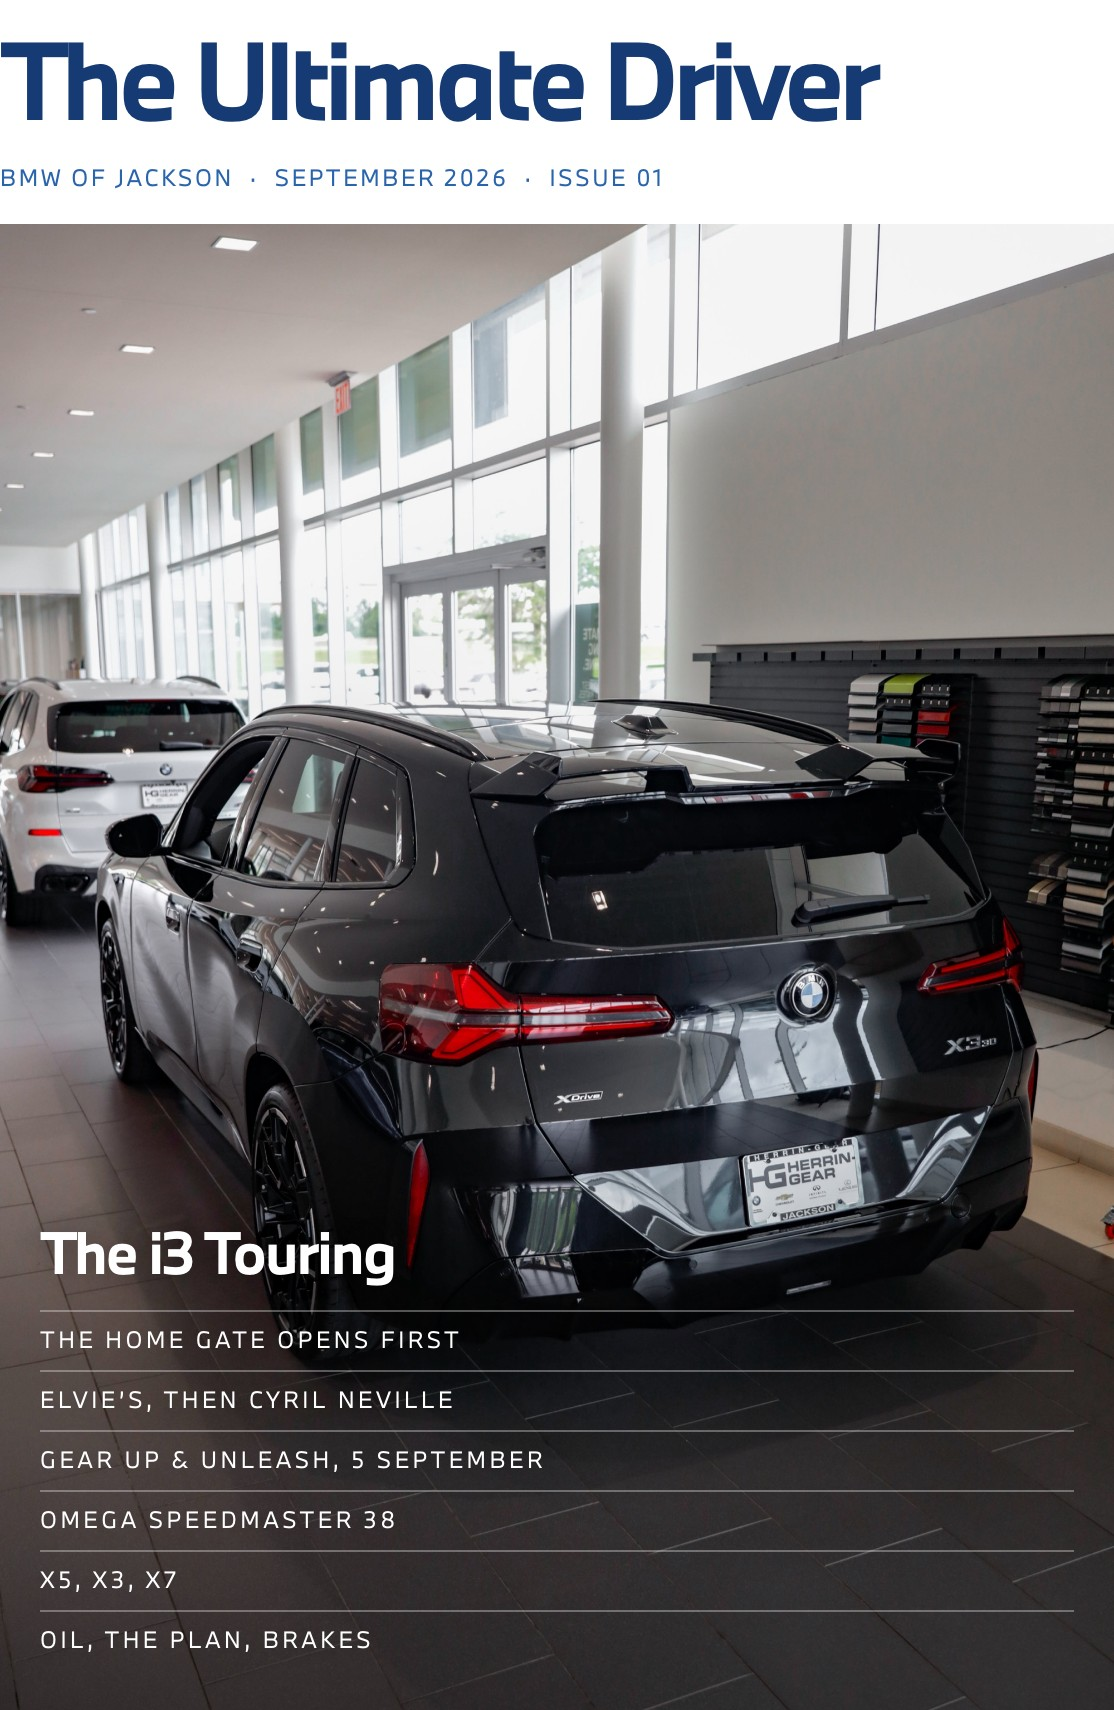
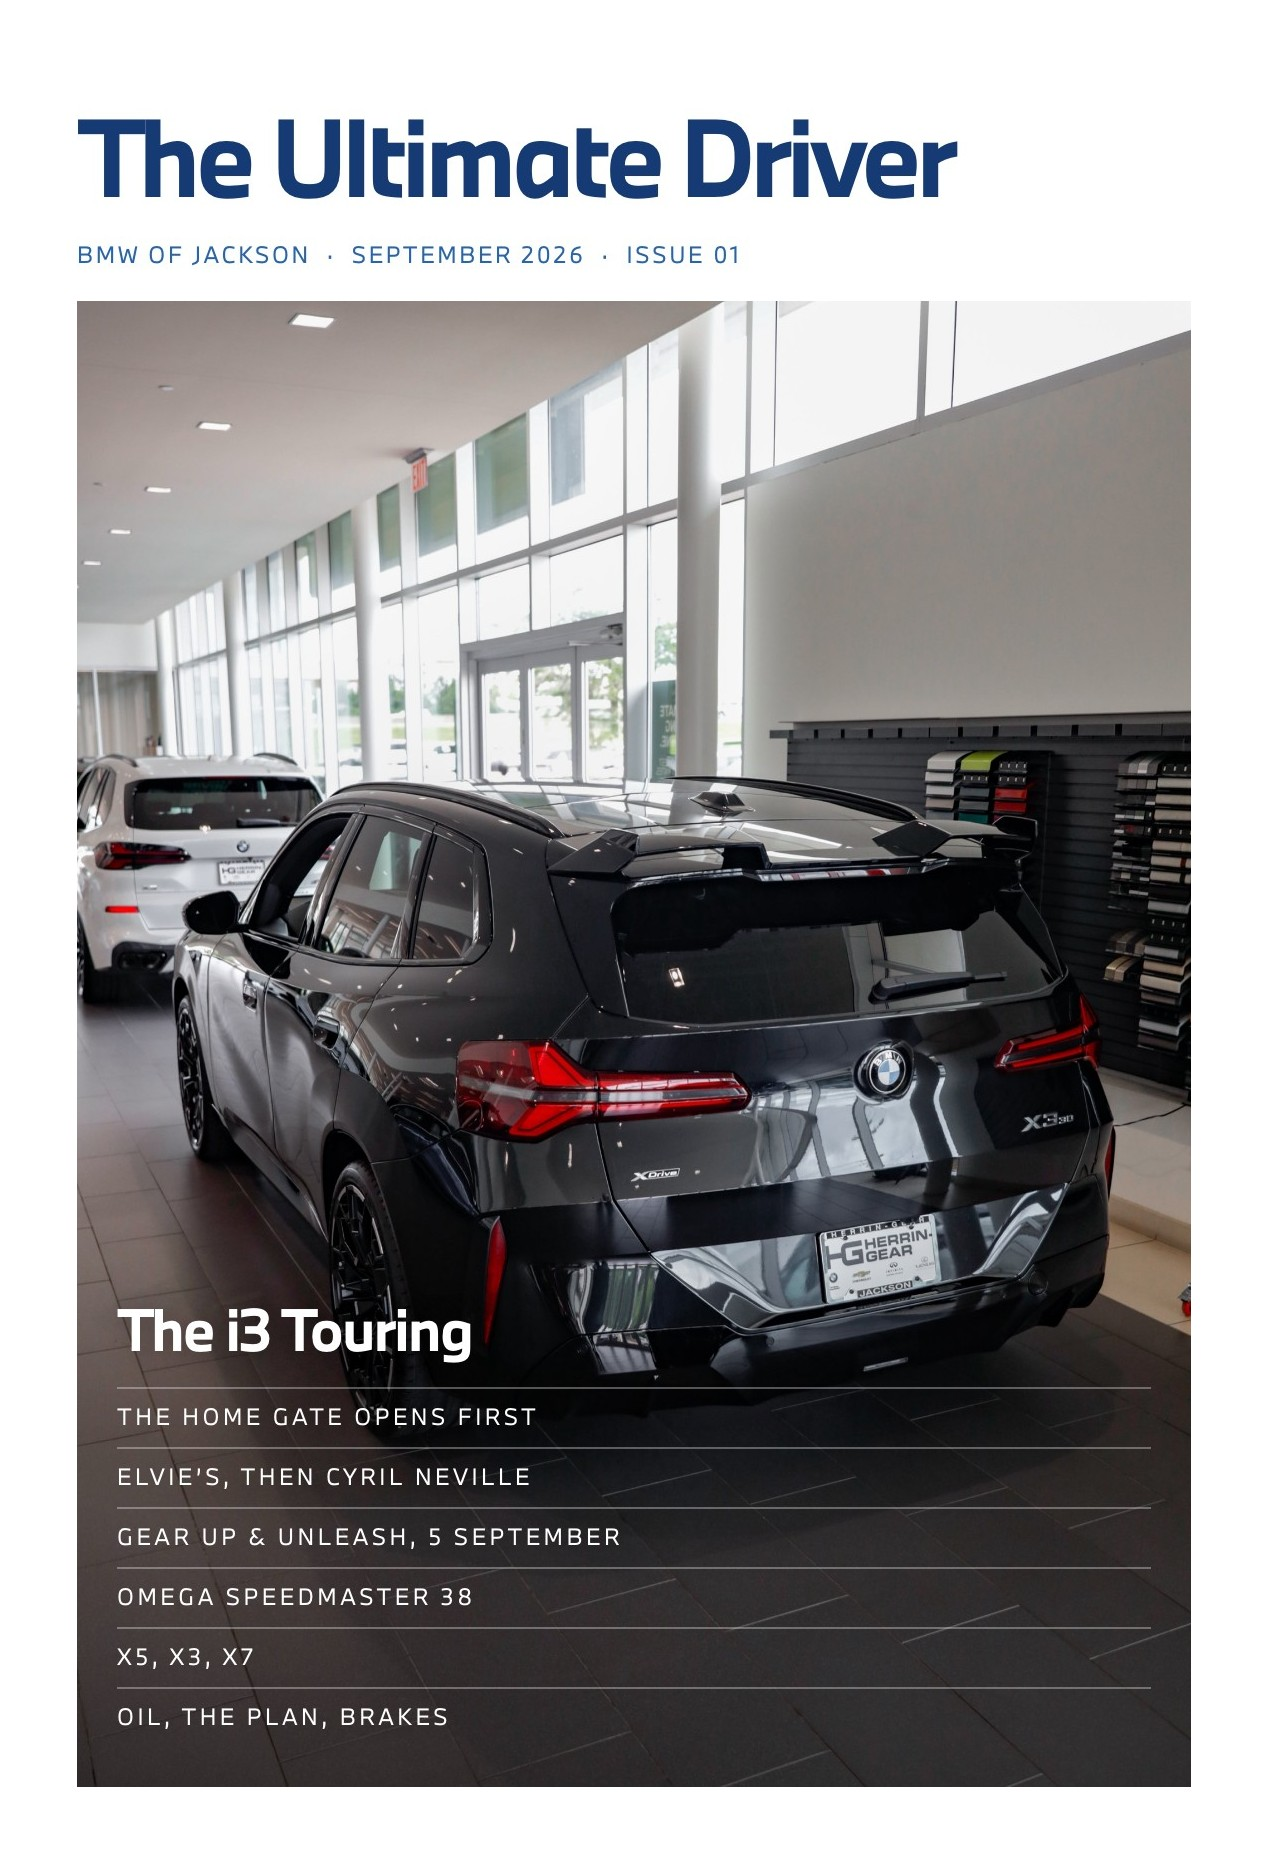
Show ABR and BMWJ magazine homepage lockups with more cover air.

diff --git a/Audi Baton Rouge/s-line-news-homepage-promo-preview.html b/Audi Baton Rouge/s-line-news-homepage-promo-preview.html
@@ -1,3 +1,33 @@
+<!DOCTYPE html>
+<html lang="en">
+<head>
+  <meta charset="UTF-8" />
+  <meta name="viewport" content="width=device-width, initial-scale=1.0" />
+  <title>Homepage promo lockup — S Line News | Audi Baton Rouge</title>
+  <link rel="stylesheet" href="https://thecooperativeagency.github.io/seo-pages/style-specs/auditype.css" />
+  <style>
+    body { margin: 0; background: #0b0f14; color: #fff; font-family: Helvetica, Arial, sans-serif; }
+    .mock-note {
+      max-width: 1120px; margin: 0 auto; padding: 16px 20px 8px;
+      font-size: 12px; letter-spacing: .08em; text-transform: uppercase; color: #9aa3ad;
+    }
+    .mock-nav {
+      background: #06101d; padding: 16px 28px; font-size: 13px; letter-spacing: .16em; text-transform: uppercase;
+      border-bottom: 1px solid #1a2430;
+    }
+    .mock-hero {
+      height: 140px; background: #141a22;
+      display: flex; align-items: center; justify-content: center;
+      color: #5c6570; font-size: 12px; letter-spacing: .18em; text-transform: uppercase;
+    }
+    .mock-slot { background: #0b0f14; padding: 0 0 48px; }
+  </style>
+</head>
+<body>
+  <p class="mock-note">Lockup mock — not the Motive paste.</p>
+  <div class="mock-nav">Audi Baton Rouge</div>
+  <div class="mock-hero">Homepage slider</div>
+  <div class="mock-slot">
 <!-- Motive paste: homepage magazine promo. Fragment only. -->
 <div class="sln-home-promo" style="font-family: Audi, 'AudiType', Arial, Helvetica, sans-serif;">
   <style>
@@ -108,3 +138,7 @@
     </div>
   </div>
 </div>
+
+  </div>
+</body>
+</html>

diff --git a/BMW of Jackson/ultimate-driver-homepage-promo-preview.html b/BMW of Jackson/ultimate-driver-homepage-promo-preview.html
@@ -1,3 +1,33 @@
+<!DOCTYPE html>
+<html lang="en">
+<head>
+  <meta charset="UTF-8" />
+  <meta name="viewport" content="width=device-width, initial-scale=1.0" />
+  <title>Homepage promo lockup — The Ultimate Driver | BMW of Jackson</title>
+  <link rel="stylesheet" href="https://thecooperativeagency.github.io/fonts/bmw.css" />
+  <style>
+    body { margin: 0; background: #0b0f14; color: #fff; font-family: Helvetica, Arial, sans-serif; }
+    .mock-note {
+      max-width: 1120px; margin: 0 auto; padding: 16px 20px 8px;
+      font-size: 12px; letter-spacing: .08em; text-transform: uppercase; color: #9aa3ad;
+    }
+    .mock-nav {
+      background: #06101d; padding: 16px 28px; font-size: 13px; letter-spacing: .16em; text-transform: uppercase;
+      border-bottom: 1px solid #1a2430;
+    }
+    .mock-hero {
+      height: 140px; background: #141a22;
+      display: flex; align-items: center; justify-content: center;
+      color: #5c6570; font-size: 12px; letter-spacing: .18em; text-transform: uppercase;
+    }
+    .mock-slot { background: #0b0f14; padding: 0 0 48px; }
+  </style>
+</head>
+<body>
+  <p class="mock-note">Lockup mock — not the Motive paste.</p>
+  <div class="mock-nav">BMW of Jackson</div>
+  <div class="mock-hero">Homepage slider</div>
+  <div class="mock-slot">
 <!-- Motive paste: homepage magazine promo. Fragment only. -->
 <div class="bmwj-mag-promo" style="font-family: bmw, 'BMW Type Next', BMWTypeNext, Helvetica, Arial, sans-serif;">
   <style>
@@ -108,3 +138,7 @@
     </div>
   </div>
 </div>
+
+  </div>
+</body>
+</html>
